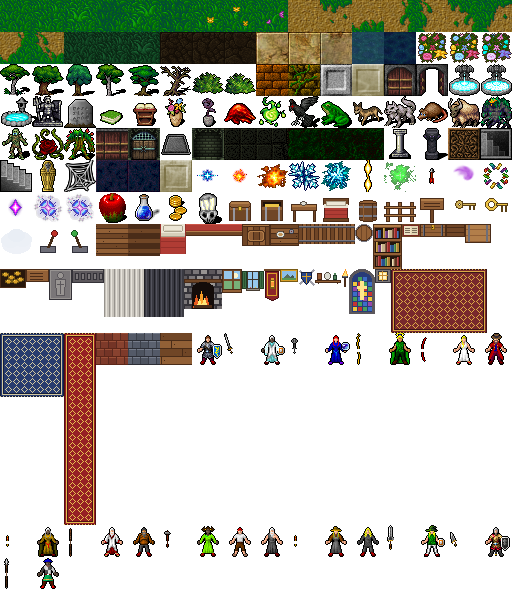
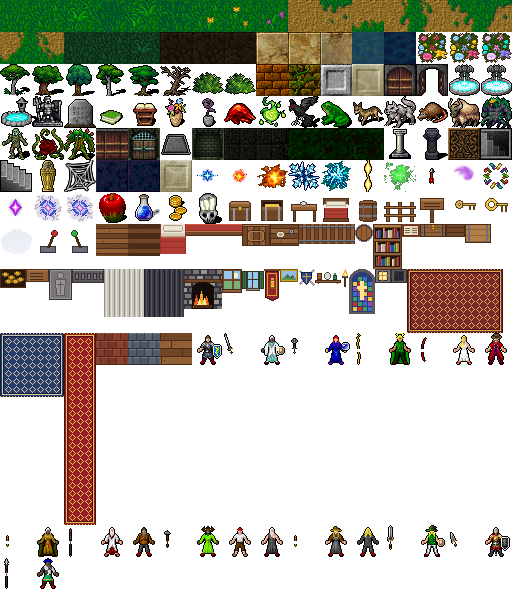
Lanterne : lanternes de sauvegarde et lanternes oubliées en volume
Petite lanterne de pierre au lieu de l'image du bassin ; la lanterne
oubliée, en pierre sombre, a ses vitres éteintes jusqu'à ce qu'on
l'allume (pièces si: 'eteinte' / 'allumee' du moteur).

Claude-Session: https://claude.ai/code/session_01RTxURJ1XwSQTktxKmeYS76

Changed region(s): [[0.9375, 0.4584, 1.0, 0.5806], [0.75, 0.4584, 0.8125, 0.5806]]

diff --git a/moteur-rpg/rendu.js b/moteur-rpg/rendu.js
@@ -154,7 +154,7 @@ void main(){
       if (lum) flamme(lum, o.x + .5, o.y + .8);
       if (s.pieces) {   // objet en volume (coffre, panneau) : les pièces marquées si: 'ouvert' / 'ferme' changent à l'ouverture
         const pieces = meuble(s, o.x, o.y); objets.set(o, { pieces, s });
-        for (const p of pieces) if (p.si === 'ouvert') p.m.visible = false;
+        for (const p of pieces) if (p.si === 'ouvert' || p.si === 'allumee') p.m.visible = false;
         return;
       }
       const nom = o.tuile || s.tuile;
@@ -236,7 +236,7 @@ void main(){
 
     // un meuble en volume (lit, table, tonneau) : des boîtes et des cylindres texturés, face par face
     // pièce : { boite: [l, h, p] | cylindre: [rayon, h] | cone: [rayon, h, côtés], brille: true, pos: [x, y, z], rot: [rx, ry, rz], dessus, face, cote,
-    //          si: 'ouvert' | 'ferme' (pour un coffre) } ; d.lumiere : une flamme qui vacille (cheminée)
+    //          si: 'ouvert' | 'ferme' (coffre), 'allumee' | 'eteinte' (lanterne oubliée) } ; d.lumiere : une flamme qui vacille (cheminée)
     function meuble(d, x, y) {
       const mat = n => new THREE.MeshLambertMaterial({ map: tex(n) }), faites = [];
       for (const p of d.pieces) {
@@ -286,6 +286,8 @@ void main(){
       const s = style.objets[o.type] || {}, lum = s.allumee;
       if (!lum || allumees.has(o)) return;
       allumees.add(o);
+      const x = objets.get(o);   // en volume : la tête allumée remplace la tête éteinte
+      if (x && x.pieces) for (const p of x.pieces) if (p.si === 'allumee' || p.si === 'eteinte') p.m.visible = p.si === 'allumee';
       const p = new THREE.PointLight(lum.couleur, lum.intensite, lum.portee, 1.5);
       p.position.set(o.x + .5, lum.hauteur || .9, o.y + .8); scene.add(p);
       vacillent.push({ p, base: lum.intensite, dec: Math.random() * 9 });
@@ -295,7 +297,7 @@ void main(){
     // un objet qui change : coffre ouvert, levier baissé (tuileOuverte), grille ou nappe disparue (cacheOuvert)
     function majObjet(o, ouvert) {
       const x = objets.get(o); if (!x) return;
-      if (x.pieces) { for (const p of x.pieces) p.m.visible = x.s.cacheOuvert ? !ouvert : p.si === 'ouvert' ? !!ouvert : p.si === 'ferme' ? !ouvert : true; return; }
+      if (x.pieces) { for (const p of x.pieces) p.m.visible = x.s.cacheOuvert ? !ouvert : p.si === 'ouvert' ? !!ouvert : p.si === 'ferme' ? !ouvert : p.m.visible; return; }
       if (x.s.cacheOuvert) { x.m.visible = !ouvert; return; }
       if (!x.s.tuileOuverte) return;
       const t = tex(ouvert ? x.s.tuileOuverte : (o.tuile || x.s.tuile));

diff --git a/lanterne/donnees/base.js b/lanterne/donnees/base.js
@@ -140,8 +140,13 @@ LANTERNE.style = {
       { boite: [.78, .14, .56], pos: [0, .36, 0], face: 'coffre_cote', cote: 'coffre_cote', dessus: 'coffre_couvercle', si: 'ferme' },
       { boite: [.78, .52, .08], pos: [0, .36, -.3], rot: [-.3, 0, 0], face: 'bois', cote: 'coffre_cote', dessus: 'bois', si: 'ouvert' }] },
     panneau: { tuile: 'panneau', pieces: [{ boite: [.09, .8, .09], face: 'bois_sombre' }, { boite: [.72, .38, .07], pos: [0, .42, .05], face: 'panneau_face', cote: 'bois', dessus: 'bois' }] },
-    lanterne: { tuile: 'lanterne_pierre', taille: 1.1, lumiere: { couleur: 0xffa040, intensite: 1.4, portee: 4, hauteur: .9 } },
-    lanterne_oubliee: { tuile: 'lanterne_pierre', taille: 1.1, allumee: { couleur: 0xffb860, intensite: 1.2, portee: 3.5, hauteur: .9 } },
+    lanterne: { tuile: 'lanterne_pierre', pieces: [{ boite: [.52, .1, .52], face: 'calcaire0' }, { cylindre: [.09, .52], pos: [0, .1, 0], face: 'colonne_fut', dessus: 'calcaire0' },
+      { boite: [.42, .06, .42], pos: [0, .62, 0], face: 'calcaire0' }, { boite: [.3, .28, .3], pos: [0, .68, 0], face: 'lanterne_face', dessus: 'calcaire0', brille: true },
+      { cone: [.34, .26], pos: [0, .96, 0], face: 'calcaire0' }, { cylindre: [.035, .1], pos: [0, 1.22, 0], face: 'calcaire0' }], lumiere: { couleur: 0xffa040, intensite: 1.4, portee: 4, hauteur: .85 } },
+    lanterne_oubliee: { tuile: 'lanterne_pierre', pieces: [{ boite: [.52, .1, .52], face: 'sol_crypte0' }, { cylindre: [.09, .52], pos: [0, .1, 0], face: 'colonne_fut_sombre', dessus: 'sol_crypte0' },
+      { boite: [.42, .06, .42], pos: [0, .62, 0], face: 'sol_crypte0' }, { boite: [.3, .28, .3], pos: [0, .68, 0], face: 'lanterne_face_eteinte', dessus: 'sol_crypte0', si: 'eteinte' },
+      { boite: [.3, .28, .3], pos: [0, .68, 0], face: 'lanterne_face', dessus: 'sol_crypte0', brille: true, si: 'allumee' },
+      { cone: [.34, .26], pos: [0, .96, 0], face: 'sol_crypte0' }, { cylindre: [.035, .1], pos: [0, 1.22, 0], face: 'sol_crypte0' }], allumee: { couleur: 0xffb860, intensite: 1.2, portee: 3.5, hauteur: .9 } },
     deco: { taille: 1 },
     grille: { tuile: 'grille', taille: 1, cacheOuvert: true }, porte_cle: { tuile: 'porte_cloutee', taille: 1, cacheOuvert: true },
     nappe: { tuile: 'nappe', taille: 1.25, cacheOuvert: true }, levier: { tuile: 'levier', tuileOuverte: 'levier_baisse', taille: .8 },

diff --git a/lanterne/donnees/tuiles.js b/lanterne/donnees/tuiles.js
@@ -147,7 +147,8 @@ LANTERNE.tuiles = {
   "torche": [341, 269, 8, 18],
   "vitrail": [349, 269, 26, 45],
   "lanterne_face": [375, 269, 16, 14],
-  "tapis": [391, 269, 96, 64],
+  "lanterne_face_eteinte": [391, 269, 16, 14],
+  "tapis": [407, 269, 96, 64],
   "tapis_bleu": [0, 333, 64, 64],
   "tapis_long": [64, 333, 32, 192],
   "toit": [96, 333, 32, 32],

diff --git a/outils/lanterne-tuiles.py b/outils/lanterne-tuiles.py
@@ -271,6 +271,11 @@ def dessines():
     d.rectangle([0, 0, 15, 13], outline=PIERRE[0]); d.rectangle([3, 2, 12, 11], fill=(255, 214, 110), outline=PIERRE[0])
     d.rectangle([5, 4, 10, 9], fill=(255, 246, 200)); d.line([7, 2, 7, 11], fill=(200, 140, 50)); d.line([3, 6, 12, 6], fill=(200, 140, 50))
     t['lanterne_face'] = im
+    im = Image.new('RGBA', (16, 14), PIERRE[1]); d = ImageDraw.Draw(im)
+    d.rectangle([0, 0, 15, 13], outline=PIERRE[0]); d.rectangle([3, 2, 12, 11], fill=(34, 36, 44), outline=PIERRE[0])
+    d.line([7, 2, 7, 11], fill=PIERRE[0]); d.line([3, 6, 12, 6], fill=PIERRE[0]); d.point((5, 4), fill=(80, 84, 96))
+    for (x, y) in ((1, 12), (2, 12), (14, 1), (13, 12), (0, 7)): d.point((x, y), fill=(70, 110, 60))
+    t['lanterne_face_eteinte'] = im
     # tapis (32 px par case) : grand tapis de 3 × 2 cases, chemin de tapis rouge, tapis rond de 2 × 2
     def tapis(w, h, fond, motif, bord):
         im = Image.new('RGBA', (w, h), fond); d = ImageDraw.Draw(im)

diff --git a/specs/suivi.md b/specs/suivi.md
@@ -4,7 +4,7 @@ Détails déplacés de `CLAUDE.md` le 19/10 (pour qu'il reste court : il est rel
 
 ## En cours / à vérifier (au 19/10)
 - **Duché** (20/10) : cahier des charges de l'utilisateur remis au standard de la Ludothèque ([`specs/duche.md`](duche.md) : scripts classiques, `ludo-scores.js`, date locale, une tentative du jour, pixel art 32 bits en portrait, sons discrets, ordre du tour revu) ; maquette `maquettes/duche.html` (A diorama 32 bits, B carte enluminée, C isométrique ; https://claude.ai/artifact/TGCRiKYw1FyA8WUmBxUiw5) refusée ; l'utilisateur veut des **hexagones**, un 4X minimaliste ; maquette 2 `maquettes/duche-2.html` (vectorielle) trop minimale graphiquement : « minimaliste » vise le concept et le nombre de ressources, le dessin doit être riche et animé ; maquette 3 `maquettes/duche-3.html` (A pixel art 32 bits, B illustré en relief) : **A retenue** ; maquette 4 `maquettes/duche-4.html` (carte, événement, combat animés) ; retour : scènes à faire comme Le Thé des Jarls, carte claire et lisible ; maquette 5 `maquettes/duche-5.html` (https://claude.ai/artifact/DBUtVjbVaptU8485abFrVv : scènes HD-2D, carte plus lisible) **validée le 20/10** ; pixel art à améliorer un peu en session 2. **Session 1 faite le 20/10** : `duche/regles.js`, `duche/evenements.js`, `duche/ia.js` (scripts classiques, chargés par Node via `vm` dans `outils/duche-simulateur.js`, lancé par `verifications.js`) ; équilibrage au simulateur : roi mort au tour 11, un vote tous les 2 tours, électeurs à critères variés avec 40 de légitimité minimum, rival couronné = fin, milice sur les terres neutres (à valider, `specs/duche.md` § 15) ; nourriture et bois abondants, à revoir après de vraies parties ; `sw.js` v44 (les 3 fichiers en cache). Deux difficultés ajoutées (20/10, facile = règles de base, normal = plaines à 1 nourriture par qualité, entretien 1/5, hiver annuel, bâtiments ×1,5, rivaux plus mordants ; jour toujours en normal) : 41 % → 28 % de victoires au simulateur, deux fois plus de fermes bâties (`specs/duche.md` § 15). **Session 2 faite le 20/10** : `decor.js` (carte tirée de l'état avec saisons, scènes HD-2D par terrain et saison, illustrations des événements), `jeu.js`, `index.html`, `style.css` ; jouable sur `duche/index.html` (pas encore sur l'accueil) ; défenseur vainqueur : pertes arrondies en dessous. **Session 3 faite le 21/10** : sons, classements, accueil, aide au premier tour, tests (`logique.js`, `fumee.js`), `sw.js` v46 ; **jeu fini**, à essayer sur le téléphone ; artefact créé le 21/10 (https://claude.ai/artifact/5Ad2yYzProUEqpSx7Q3ook). Scène de bataille corrigée (21/10) : bannières plantées derrière les rangs (elles avançaient seules), habitants armés en face quand la terre n'a pas de garnison mais une défense (terrain, murs : 2 figurines par point), terre sans aucune défense occupée sans combat (scène OCCUPATION). Graphismes plus lisibles (21/10, demande de l'utilisateur) : bâtiments redessinés et bien distincts (grange rouge et moulin, scierie à scie ronde et grumes, mine dans le rocher avec rails et or, deux étals rayés au marché, tente et râtelier de lances à la caserne), décalés pour que l'écusson ne les cache plus ; miniature de chaque bâtiment dans le menu CONSTRUIRE ; lance des soldats tenue le long du dos (plus entre les pieds) ; armées plus écartées ; le premier rang tombe d'abord. 30 tours, 37 terres. Partie libre classée (`best`), Duché remplace Le Petit Royaume. Ensuite 3 sessions, Opus.
-- **La Dernière Lanterne (RPG)** (20/10) : cahier des charges [`specs/rpg.md`](specs/rpg.md) : petit RPG de 5 à 10 h façon Link's Awakening / Dragon Quest 1, 4 classes (LAME, ARCANISTE, RODEUR, CLERC), 6 stats expliquées, scénario en 4 actes et 3 rebondissements (Isée la Brumienne, le Prieur qui est Aubrin), moteur `moteur-rpg/` séparé des données. Relu le 20/10 : titre validé, **équipe de 4 héros** (le héros LAME, ELOI CLERC, VERENE ARCANISTE, MAUD RODEUR), **tour par tour**, **sauvegardes automatiques aux moments clés** (défaite = reprise à la plus récente, sans perte), **pas de classement** ; larmes et troc gardés pour l'instant mais trop proches de Zelda (remplacements proposés au § 8.4). Puis **validé** le 20/10 : monstres visibles sur la carte, l'équipe telle quelle, larmes et troc remplacés par les lanternes oubliées et les quêtes des compagnons. **Maquette (20/10)** `maquettes/la-derniere-lanterne.html` (https://claude.ai/artifact/DniPR4j2u1FEJXJWY7wuuo) : trois directions sur trois téléphones, même moment du jeu, trois scènes animées (carte du Bois Murmurant avec l'équipe en file, la lanterne et un feu follet ; combat à quatre au tour par tour ; Isée à Clairfond) : A la nuit gothique (Vampire Survivors, lumière par paliers, brume tramée, cartes-portraits au combat), B le conte 16 bits (Link's Awakening DX / Dragon Quest, fenêtres bleues, combat de face), C lumière et brume (pixel art sous halos doux, brume en nappes, combat de côté avec l'ordre des tours). **Retour : C « pas mal mais beaucoup de travail »** ; combat vu de profil avec une animation par attaque ; personnages et décor à revoir, s'inspirer d'**Octopath Traveler sans HD-2D**. **Maquette 2 (20/10)** `maquettes/la-derniere-lanterne-2.html` (https://claude.ai/artifact/TLds9VrVmtsNQTv8RD4TeM) : écran logique 180 × 320 ; personnages articulés (pantins dessinés en pixels, ombrage et contour coloré automatiques, poses : marche, course, garde, élan, taille, sort, prière, coup de dague, coup reçu) ; décor en relief (grands arbres, muret et escalier, ruisseau, pont, lanterne de pierre, panneau, clôture) ; combat de profil animé (MAUD disparaît et frappe deux fois, ALDEN court et taille, cristaux de VERENE, colonne de lumière d'ELOI, feu follet et gelée qui attaquent) ; même dessin sous trois lumières : 1 crépuscule doré, 2 nuit des lanternes, 3 matin de brume. **Retour : la 1 est bien, mais pas l'ambiance crépusculaire (« une journée normale ») ; les personnages « ça fait pas ouf ».** **Maquette 3 (20/10)** `maquettes/la-derniere-lanterne-3.html` (https://claude.ai/artifact/C82S25sKWRxf6cxCvFsne7) : plein jour (ciel bleu, nuages, ombres de nuages qui passent) ; personnages redessinés (visage de trois quarts : deux yeux, sourcils, nez, bouche ; coiffures et tenues propres à chacun : cape rouge d'ALDEN, capuche d'ELOI dans le dos, chapeau de VERENE, capuche et écharpe de MAUD) ; deux proportions : 1 héroïque (trois têtes, façon Octopath), 2 conte (deux têtes, grands yeux, joues roses) ; nouvel onglet EQUIPE (les quatre en grand et leurs gestes). **Retour : l'utilisateur envoie des planches de sprites d'Octopath Traveler (et de Final Fantasy Brave Exvius / War of the Visions) : « voilà le genre de DA que j'attends ».** **Maquette 4 (20/10)** `maquettes/la-derniere-lanterne-4.html` (https://claude.ai/artifact/1jUkewXd353fDwNWAk5vbp) : héros dessinés pixel par pixel (grilles de 22 colonnes, vue de face de trois quarts, grosse chevelure, petit visage), bras et arme redessinés seulement pendant les gestes, traits sombres entre matières et modelé automatiques ; contour noir (1) ou doux (2). Limite constatée : moins fin que les références (moins de nuances, corps trop larges) ; piste si ça ne suffit pas : partir de sprites existants libres de droits ou fournis par l'utilisateur. **Retour : refusée, « ça ne s'inspire pas du tout des sprites » ; laisser entièrement tomber le design et la DA actuels et repartir des sprites de référence.** **Maquette 5 (20/10)** `maquettes/la-derniere-lanterne-5.html` (https://claude.ai/artifact/TNkaxKCqaAMe2Tsa7Rs36J) : planche sur fond clair comme les références ; mesures prises sur les sprites de référence (18 × 34 px, tête et cheveux sur 13 lignes, petit visage, corps étroit, bras le long du corps, jambes séparées, 3 à 4 nuances par matière, contour presque noir teinté) ; ALDEN, ELOI, VERENE, MAUD et Isée dessinés de zéro (pas de copie), animés (respiration, marche, geste), à taille agrandie et à taille réelle. Décor, monstres et combat à refaire dans ce style après validation des héros. **Retour : « pas assez proportionné, trop grosse tête, trop coloré ».** **v2 (même lien)** : tête ramenée à 12 colonnes sur 13 lignes, corps plus large (16 colonnes avec les bras), jambes plus longues (sprites de 35 à 38 lignes), palettes éteintes et terreuses (bleu gris, rouge passé, vert mousse, prune, écru). À valider. **Retour (21/10) : « ça ne ressemble pas, même de loin, aux modèles ».** Constat : dessiner des sprites de ce niveau en code ne marche pas ; pistes : pack existant ou sprites fournis. L'utilisateur a montré une planche de guerrier générée par une autre IA (style visé : personnages de face, détaillés, cape, cotte de mailles ; inutilisable telle quelle, pixels hors grille). Essai du pack gratuit **Tiny RPG Character Asset Pack** de Zerie (itch.io autorisé dans l'environnement ; version gratuite : Soldat et Orque, 100 × 100 par image, ~20 px de haut, 7 animations) : https://claude.ai/artifact/UGnfWCjt2XEpsWdbSCKaAK (fichier gardé hors du dépôt : la licence interdit de redistribuer les fichiers bruts). Style chibi minuscule, loin du style visé. En attente du choix de l'utilisateur. Galerie de 24 packs trouvés sur itch.io : https://claude.ai/artifact/WUNw5EGKguEcTL7MaohZfY. L'utilisateur veut rester sur du gratuit. Essai du pack **32rogues** de Seth (gratuit ; usage commercial permis, sans redistribution ni IA ; 32 × 32 vus de face, une seule image par personnage, monstres, animaux, objets et décors) : https://claude.ai/artifact/WsWqBAKVZw8iEc8n3X6JLB (équipe au choix, carte, combat animé par le code ; décor du pack sombre, posé sur un sol clair). Fichiers d'essai gardés hors du dépôt. Essai des packs **Kenney** (CC0, aucune contrainte) « Roguelike Characters » + « Roguelike RPG Pack » : héros composés pièce par pièce (16 × 16), village d'exemple du pack, combat animé par le code : `maquettes/la-derniere-lanterne-kenney.html` (https://claude.ai/artifact/BDsADhAxC8KP1Psj4piGDX). L'utilisateur : « la DA sera peut-être plus sympa comme ça ». À valider. **Décision (21/10) : partir sur du 16 × 16** (32 × 32 trop rare en gratuit), avec des personnages plus détaillés que Kenney. Galerie de 24 packs gratuits 16 × 16 : https://claude.ai/artifact/EL654zY3aaBvk9mRQt2arS ; l'utilisateur retient 1 (superdark, Fantasy RPG Characters : licence libre, ~25 humains, pas de monstres), 3 (thingonitsown, Heroes and Monsters : animé, mais reprend World of Warcraft, héros déconseillés) et 15 (Pixel Crawler d'anokolisa : le plus soigné, animé, décors superbes, seulement 3 héros, conditions dans un document externe non lu). Essai des trois : https://claude.ai/artifact/4X5giCU7XDi5T3cBnNo6Ph (hors dépôt). **Famille trouvée (21/10)** : le pack superdark est une extension de **0x72 DungeonTileset II** (CC0 : héros chevalier, elfe, magicienne, nain, homme-lézard ; gobelins, orques, squelettes, zombies, démons, gelées ; donjons ; tout animé) ; superdark a aussi **Enchanted Forest Characters** (gratuit, usage libre : prêtres, rôdeuse, elfes, fée, loups, ours, champignons, gnolls, troll, ent, golem ; animés). Packs d'objets de l'utilisateur : **ssugmi** 16 × 16 (70 objets, usage commercial permis, redistribution interdite) et **Shikashi** (284 icônes 32 × 32, libres, crédit « Matt Firth (shikashipx) » et « game-icons.net »). Essai du mélange (équipe au choix, combat en forêt, combat contre les monstres de Pixel Crawler, inventaire) : https://claude.ai/artifact/Hy1AiMTiEER6Vi4qCB7KPf (hors dépôt). L'utilisateur : faire un RPG sans un pack solide est compliqué. **Essai de Ninja Adventure (21/10)** (pixel-boy et AAA, CC0, prix libre, 89 Mo : 50+ personnages animés 4 directions avec portraits, 30+ monstres, 9 boss, décors, interface, police, effets, objets, 100+ bruitages, 37 musiques) : `maquettes/la-derniere-lanterne-ninja.html` (https://claude.ai/artifact/Tzfphngo1JkMHwPnEHjRwE) : équipe au choix, village composé avec les décors, dialogue avec portrait, combat avec effets et bruitages, inventaire, musique « Lost Village ». Note technique : la police du pack (NormalFont.ttf) n'a pas d'espace, il faut placer les mots un par un. **Validé (21/10) : Ninja Adventure retenu.** Deux points : police du pack trop difficile à lire (en choisir une autre) ; sélection des personnages à faire. Page de choix `maquettes/la-derniere-lanterne-choix.html` (https://claude.ai/artifact/6wntfaMcXYmeNNYuUQgNhn) : trois polices (Pixelify Sans, VT323, Jersey 10) dans la boîte de dialogue et le bandeau de combat ; les 92 personnages du pack, à attribuer aux rôles (4 héros, Isée, Mère Ysolde, Prieur Vaast, Gaspard, villageois), bilan à copier. En attente des choix (page de choix mise de côté le 21/10 à la demande de l'utilisateur). **Essai Dungeon Crawl 32 × 32** (21/10, `maquettes/la-derniere-lanterne-dcss.html`, https://claude.ai/artifact/9cesgeEQCAj1t8FaMz3uty) : tuiles de Dungeon Crawl Stone Soup (CC0, prises dans le dépôt GitHub `crawl/crawl`, dossier `crawl-ref/source/rltiles`, car `opengameart.org` était encore bloqué ; pour la vraie version, prendre le zip d'OpenGameArt, CC0) ; héros composés en poupée (corps + armure + arme, l'équipement se voit), village, combat animé, objets ; limites : une seule image de face par personnage, peu de décor de village, ni interface ni sons. Avis : « ça rend pas si mal » ; demande d'essayer les sons de Ninja Adventure, des animations et une vue HD-2D. **Essai HD-2D** (21/10, `maquettes/la-derniere-lanterne-hd2d.html`, https://claude.ai/artifact/HtaCGnYudqSPyiqTZEeJNn) : Three.js r128 (cdnjs) ; village et combat en relief (maison avec toit, arbres en panneaux qui projettent leur ombre, flou de profondeur et lueur faits par un petit shader maison, poussières dans la lumière, lanterne de pierre éclairée, éclairs colorés des sorts) ; animations faites par le code dans un canevas 64 × 48 par personnage (respiration, marche balancée, arme tournée autour de sa prise calculée par `construire.py`, flash, saut) ; sons et musiques (« Calm Village », « Fight ») de Ninja Adventure en ogg mono ; page de 950 Ko. Sources de fabrication dans le brouillon de la session (`dcw/construire.py`, `gabarit2.html`). Avis (21/10) : « incroyable », graphismes cohérents, la HD-2D donne un côté original ; quelques retouches à venir. Corrigé : son muet (les sons sont décodés depuis le base64 avec `atob` au lieu de `fetch` sur une URL `data:`, et un son vide joué pendant le geste débloque l'audio) ; monstres retournés face aux héros (les tuiles de Dungeon Crawl regardent vers la gauche). Avis suivant : musique bien, sons des sorts « pas terribles », attaque en « pirouette bizarre », demande de voir ce qu'on peut faire des personnages. Fait (21/10) : attaque calmée (l'arme tourne de 0,35 puis −0,55 rad au lieu de 0,8 puis −1,4) ; **banc des sons** dans l'essai HD-2D (2 à 4 sons par action : Ninja Adventure, Kenney CC0 « RPG Audio » et « Impact Sounds », et **Leohpaz « RPG Essentials SFX Free »** sur itch.io : usage libre même commercial, crédit apprécié, mais interdit de redistribuer le pack lui-même ; choix gardés dans `localStorage` `ldl-sons`) ; **atelier des personnages** (`maquettes/la-derniere-lanterne-atelier.html`, https://claude.ai/artifact/StNMGsAUALcSSQEenvs2H2, 2 Mo) : composer un héros pièce par pièce (174 corps, 56 coiffures, 35 barbes, 159 armures, 103 coiffes, 224 armes, 36 boucliers, capes, gants, bottes, jambes ; ordre de superposition de Dungeon Crawl, cape derrière), animations, au hasard, recette à copier ; galerie de 1 129 monstres et habitants par famille. Fabriqué par `dcw/atelier.py` dans le brouillon. **Choix (22/10)** : personnages actuels gardés ; sons choisis (détail dans `specs/rpg.md` § 14), mis par défaut dans l'essai HD-2D. **DA validée** : Dungeon Crawl 32 × 32 en HD-2D (`specs/rpg.md` § 13). **Session 1 du moteur faite (22/10)** : `moteur-rpg/` (regles, etat, monde, evenements testables sous Node ; poupees, rendu HD-2D, interface, menu, entrees, sons, partie) et `lanterne/` jouable : écran titre (3 emplacements, effacer, nom du héros), maison d'Ysolde (début du prologue, mission, 2 herbes, 30 écus), Clairfond (3 maisons dont l'auberge, 7 habitants dont Gaspard et son « âne » Biscotte, statue d'Aubrin, lanterne du village qui soigne et sauvegarde, coffre, panneaux, étang, fontaine), route de la forêt dans la brume (4 monstres errants, rencontre avec Isée, lanterne oubliée qui montre un souvenir, coffre, lanterne de sauvegarde, portes de l'abbaye = fin de cette version). Les combats ne sont pas encore là : toucher un monstre affiche un message et le monstre disparaît. Sauvegardes : automatiques (Clairfond, route, événements), à la main aux lanternes, copie de reprise à chaque carte. Décisions prises en route (à valider par l'utilisateur) : caméra qui suit l'équipe au lieu de l'écran par écran ; Pixelify Sans avec accents ; nom du héros 8 lettres. Vérifié : `outils/lanterne-tests.js` (moteur, données, accessibilité), bloc de `fumee.js`, ESLint, parties jouées au clavier dans Chromium. `sw.js` passé à `ludotheque-v50`. Pas encore : accueil, `LUDO1-`, artefact (session 6). Clins d'œil (idée de l'utilisateur, 22/10, `specs/rpg.md` § 5.3) : Nuage (Cloud) et le garçon en vert (Link) à Clairfond ; les habitants peuvent avoir leur geste (`anim` dans la carte). **Session 2 faite (22/10)** : combats au tour par tour (`moteur-rpg/regles.js` complété, `combat.js`, `combat-ui.js`), 27 talents, objets et équipement (`lanterne/donnees/combat.js`), 5 monstres de la forêt + le Grand Cerf (image provisoire), sons choisis par l'utilisateur, musique « Fight », menu ÉQUIPE avec l'équipement et OBJETS utilisables, coffre d'une veste de cuir sur la route, garde à la flèche dans le genou (idée de l'utilisateur) à Clairfond. Équilibrage : `outils/lanterne-combats.js` (héros seul niv. 1 contre un feu follet : 2 tours, 26 % des PV ; contre deux : 88 % de victoires ; Grand Cerf à 3 niv. 6 : 94 %, 8,8 tours). Tests : `lanterne-tests.js` (formules du § 9.2, niveaux, équipement, Protection, fuite, surprise, objets, équilibrage), combat entier dans `fumee.js`. `sw.js` : `ludotheque-v51`. **Session 3 faite (22/10)** : le boss de l'acte 1 devient **le Roi des aulnes** (choix de l'utilisateur, le pack n'a pas de cerf) ; abbaye (Grande Lanterne, Vaast, Eloi rejoint) ; Bois Murmurant à l'est de Clairfond (Vérène sauvée d'un loup et d'un corbeau, lanterne oubliée, coffres) ; Crypte des racines en 4 salles (levier et grille, Lanterne du veilleur = premier outil sur le bouton B qui dissipe la brume, clé et porte, cœur avec fresque et Roi des aulnes) ; fin de l'acte 1. Moteur : objets ouvrables, outils, monstres faibles qui fuient, habitants cachés. Équilibrage : Roi des aulnes contre le trio niv. 5 : 91 % de victoires, 7,4 tours ; Vérène niv. 1 contre loup + corbeau : 100 %. Solveur d'accessibilité jusqu'à `LANTERNE.fin`. Partie jouée dans Chromium de l'abbaye au boss. **Retouches (22/10)** : cartouche DEMO sur l'accueil ; marche plus douce (le balancement suit l'horloge, 2,4 cycles par seconde, au lieu de repartir à chaque case, soit 10 cycles par seconde) ; **meubles en volume** (decor `meuble` du moteur : lit, table et tonneau faits de boîtes et de cylindres texturés face par face, au lieu d'images debout qui paraissaient plates) ; page **Crédits** (`credits/index.html`, lien en bas de l'accueil et sur l'écran titre de la Lanterne) et règle des crédits. **Passe sur les objets (22/10)** : en volume aussi la bibliothèque, le pupitre au livre ouvert, la cheminée (avec sa flamme qui vacille), les barrières, les colonnes de l'abbaye et de la crypte, les sarcophages couchés, et les objets coffre (couvercle qui s'ouvre sur les pièces d'or) et panneau ; **ornements** des cartes (`ornements` : tapis au sol, fenêtres, vitraux, tapisseries, tableau, bouclier, étagère, torches qui éclairent) ; fenêtres à volets sur les façades de Clairfond (`fenetres` des maisons) ; maison d'Ysolde et auberge meublées (cheminée, tapis, fenêtres), abbaye (vitraux, tapisseries, tapis rouge), crypte (torches). Grande Lanterne de l'abbaye refaite en volume et avancée au milieu de la nef (bassin d'eau, fût, tête aux vitres allumées, toit pointu ; l'image du pack, loin du mur, devenait un bassin qui flotte) ; Vaast l'attend à côté du tapis. Prochaine étape : session 4 (actes 2 et 3), opusplan.
+- **La Dernière Lanterne (RPG)** (20/10) : cahier des charges [`specs/rpg.md`](specs/rpg.md) : petit RPG de 5 à 10 h façon Link's Awakening / Dragon Quest 1, 4 classes (LAME, ARCANISTE, RODEUR, CLERC), 6 stats expliquées, scénario en 4 actes et 3 rebondissements (Isée la Brumienne, le Prieur qui est Aubrin), moteur `moteur-rpg/` séparé des données. Relu le 20/10 : titre validé, **équipe de 4 héros** (le héros LAME, ELOI CLERC, VERENE ARCANISTE, MAUD RODEUR), **tour par tour**, **sauvegardes automatiques aux moments clés** (défaite = reprise à la plus récente, sans perte), **pas de classement** ; larmes et troc gardés pour l'instant mais trop proches de Zelda (remplacements proposés au § 8.4). Puis **validé** le 20/10 : monstres visibles sur la carte, l'équipe telle quelle, larmes et troc remplacés par les lanternes oubliées et les quêtes des compagnons. **Maquette (20/10)** `maquettes/la-derniere-lanterne.html` (https://claude.ai/artifact/DniPR4j2u1FEJXJWY7wuuo) : trois directions sur trois téléphones, même moment du jeu, trois scènes animées (carte du Bois Murmurant avec l'équipe en file, la lanterne et un feu follet ; combat à quatre au tour par tour ; Isée à Clairfond) : A la nuit gothique (Vampire Survivors, lumière par paliers, brume tramée, cartes-portraits au combat), B le conte 16 bits (Link's Awakening DX / Dragon Quest, fenêtres bleues, combat de face), C lumière et brume (pixel art sous halos doux, brume en nappes, combat de côté avec l'ordre des tours). **Retour : C « pas mal mais beaucoup de travail »** ; combat vu de profil avec une animation par attaque ; personnages et décor à revoir, s'inspirer d'**Octopath Traveler sans HD-2D**. **Maquette 2 (20/10)** `maquettes/la-derniere-lanterne-2.html` (https://claude.ai/artifact/TLds9VrVmtsNQTv8RD4TeM) : écran logique 180 × 320 ; personnages articulés (pantins dessinés en pixels, ombrage et contour coloré automatiques, poses : marche, course, garde, élan, taille, sort, prière, coup de dague, coup reçu) ; décor en relief (grands arbres, muret et escalier, ruisseau, pont, lanterne de pierre, panneau, clôture) ; combat de profil animé (MAUD disparaît et frappe deux fois, ALDEN court et taille, cristaux de VERENE, colonne de lumière d'ELOI, feu follet et gelée qui attaquent) ; même dessin sous trois lumières : 1 crépuscule doré, 2 nuit des lanternes, 3 matin de brume. **Retour : la 1 est bien, mais pas l'ambiance crépusculaire (« une journée normale ») ; les personnages « ça fait pas ouf ».** **Maquette 3 (20/10)** `maquettes/la-derniere-lanterne-3.html` (https://claude.ai/artifact/C82S25sKWRxf6cxCvFsne7) : plein jour (ciel bleu, nuages, ombres de nuages qui passent) ; personnages redessinés (visage de trois quarts : deux yeux, sourcils, nez, bouche ; coiffures et tenues propres à chacun : cape rouge d'ALDEN, capuche d'ELOI dans le dos, chapeau de VERENE, capuche et écharpe de MAUD) ; deux proportions : 1 héroïque (trois têtes, façon Octopath), 2 conte (deux têtes, grands yeux, joues roses) ; nouvel onglet EQUIPE (les quatre en grand et leurs gestes). **Retour : l'utilisateur envoie des planches de sprites d'Octopath Traveler (et de Final Fantasy Brave Exvius / War of the Visions) : « voilà le genre de DA que j'attends ».** **Maquette 4 (20/10)** `maquettes/la-derniere-lanterne-4.html` (https://claude.ai/artifact/1jUkewXd353fDwNWAk5vbp) : héros dessinés pixel par pixel (grilles de 22 colonnes, vue de face de trois quarts, grosse chevelure, petit visage), bras et arme redessinés seulement pendant les gestes, traits sombres entre matières et modelé automatiques ; contour noir (1) ou doux (2). Limite constatée : moins fin que les références (moins de nuances, corps trop larges) ; piste si ça ne suffit pas : partir de sprites existants libres de droits ou fournis par l'utilisateur. **Retour : refusée, « ça ne s'inspire pas du tout des sprites » ; laisser entièrement tomber le design et la DA actuels et repartir des sprites de référence.** **Maquette 5 (20/10)** `maquettes/la-derniere-lanterne-5.html` (https://claude.ai/artifact/TNkaxKCqaAMe2Tsa7Rs36J) : planche sur fond clair comme les références ; mesures prises sur les sprites de référence (18 × 34 px, tête et cheveux sur 13 lignes, petit visage, corps étroit, bras le long du corps, jambes séparées, 3 à 4 nuances par matière, contour presque noir teinté) ; ALDEN, ELOI, VERENE, MAUD et Isée dessinés de zéro (pas de copie), animés (respiration, marche, geste), à taille agrandie et à taille réelle. Décor, monstres et combat à refaire dans ce style après validation des héros. **Retour : « pas assez proportionné, trop grosse tête, trop coloré ».** **v2 (même lien)** : tête ramenée à 12 colonnes sur 13 lignes, corps plus large (16 colonnes avec les bras), jambes plus longues (sprites de 35 à 38 lignes), palettes éteintes et terreuses (bleu gris, rouge passé, vert mousse, prune, écru). À valider. **Retour (21/10) : « ça ne ressemble pas, même de loin, aux modèles ».** Constat : dessiner des sprites de ce niveau en code ne marche pas ; pistes : pack existant ou sprites fournis. L'utilisateur a montré une planche de guerrier générée par une autre IA (style visé : personnages de face, détaillés, cape, cotte de mailles ; inutilisable telle quelle, pixels hors grille). Essai du pack gratuit **Tiny RPG Character Asset Pack** de Zerie (itch.io autorisé dans l'environnement ; version gratuite : Soldat et Orque, 100 × 100 par image, ~20 px de haut, 7 animations) : https://claude.ai/artifact/UGnfWCjt2XEpsWdbSCKaAK (fichier gardé hors du dépôt : la licence interdit de redistribuer les fichiers bruts). Style chibi minuscule, loin du style visé. En attente du choix de l'utilisateur. Galerie de 24 packs trouvés sur itch.io : https://claude.ai/artifact/WUNw5EGKguEcTL7MaohZfY. L'utilisateur veut rester sur du gratuit. Essai du pack **32rogues** de Seth (gratuit ; usage commercial permis, sans redistribution ni IA ; 32 × 32 vus de face, une seule image par personnage, monstres, animaux, objets et décors) : https://claude.ai/artifact/WsWqBAKVZw8iEc8n3X6JLB (équipe au choix, carte, combat animé par le code ; décor du pack sombre, posé sur un sol clair). Fichiers d'essai gardés hors du dépôt. Essai des packs **Kenney** (CC0, aucune contrainte) « Roguelike Characters » + « Roguelike RPG Pack » : héros composés pièce par pièce (16 × 16), village d'exemple du pack, combat animé par le code : `maquettes/la-derniere-lanterne-kenney.html` (https://claude.ai/artifact/BDsADhAxC8KP1Psj4piGDX). L'utilisateur : « la DA sera peut-être plus sympa comme ça ». À valider. **Décision (21/10) : partir sur du 16 × 16** (32 × 32 trop rare en gratuit), avec des personnages plus détaillés que Kenney. Galerie de 24 packs gratuits 16 × 16 : https://claude.ai/artifact/EL654zY3aaBvk9mRQt2arS ; l'utilisateur retient 1 (superdark, Fantasy RPG Characters : licence libre, ~25 humains, pas de monstres), 3 (thingonitsown, Heroes and Monsters : animé, mais reprend World of Warcraft, héros déconseillés) et 15 (Pixel Crawler d'anokolisa : le plus soigné, animé, décors superbes, seulement 3 héros, conditions dans un document externe non lu). Essai des trois : https://claude.ai/artifact/4X5giCU7XDi5T3cBnNo6Ph (hors dépôt). **Famille trouvée (21/10)** : le pack superdark est une extension de **0x72 DungeonTileset II** (CC0 : héros chevalier, elfe, magicienne, nain, homme-lézard ; gobelins, orques, squelettes, zombies, démons, gelées ; donjons ; tout animé) ; superdark a aussi **Enchanted Forest Characters** (gratuit, usage libre : prêtres, rôdeuse, elfes, fée, loups, ours, champignons, gnolls, troll, ent, golem ; animés). Packs d'objets de l'utilisateur : **ssugmi** 16 × 16 (70 objets, usage commercial permis, redistribution interdite) et **Shikashi** (284 icônes 32 × 32, libres, crédit « Matt Firth (shikashipx) » et « game-icons.net »). Essai du mélange (équipe au choix, combat en forêt, combat contre les monstres de Pixel Crawler, inventaire) : https://claude.ai/artifact/Hy1AiMTiEER6Vi4qCB7KPf (hors dépôt). L'utilisateur : faire un RPG sans un pack solide est compliqué. **Essai de Ninja Adventure (21/10)** (pixel-boy et AAA, CC0, prix libre, 89 Mo : 50+ personnages animés 4 directions avec portraits, 30+ monstres, 9 boss, décors, interface, police, effets, objets, 100+ bruitages, 37 musiques) : `maquettes/la-derniere-lanterne-ninja.html` (https://claude.ai/artifact/Tzfphngo1JkMHwPnEHjRwE) : équipe au choix, village composé avec les décors, dialogue avec portrait, combat avec effets et bruitages, inventaire, musique « Lost Village ». Note technique : la police du pack (NormalFont.ttf) n'a pas d'espace, il faut placer les mots un par un. **Validé (21/10) : Ninja Adventure retenu.** Deux points : police du pack trop difficile à lire (en choisir une autre) ; sélection des personnages à faire. Page de choix `maquettes/la-derniere-lanterne-choix.html` (https://claude.ai/artifact/6wntfaMcXYmeNNYuUQgNhn) : trois polices (Pixelify Sans, VT323, Jersey 10) dans la boîte de dialogue et le bandeau de combat ; les 92 personnages du pack, à attribuer aux rôles (4 héros, Isée, Mère Ysolde, Prieur Vaast, Gaspard, villageois), bilan à copier. En attente des choix (page de choix mise de côté le 21/10 à la demande de l'utilisateur). **Essai Dungeon Crawl 32 × 32** (21/10, `maquettes/la-derniere-lanterne-dcss.html`, https://claude.ai/artifact/9cesgeEQCAj1t8FaMz3uty) : tuiles de Dungeon Crawl Stone Soup (CC0, prises dans le dépôt GitHub `crawl/crawl`, dossier `crawl-ref/source/rltiles`, car `opengameart.org` était encore bloqué ; pour la vraie version, prendre le zip d'OpenGameArt, CC0) ; héros composés en poupée (corps + armure + arme, l'équipement se voit), village, combat animé, objets ; limites : une seule image de face par personnage, peu de décor de village, ni interface ni sons. Avis : « ça rend pas si mal » ; demande d'essayer les sons de Ninja Adventure, des animations et une vue HD-2D. **Essai HD-2D** (21/10, `maquettes/la-derniere-lanterne-hd2d.html`, https://claude.ai/artifact/HtaCGnYudqSPyiqTZEeJNn) : Three.js r128 (cdnjs) ; village et combat en relief (maison avec toit, arbres en panneaux qui projettent leur ombre, flou de profondeur et lueur faits par un petit shader maison, poussières dans la lumière, lanterne de pierre éclairée, éclairs colorés des sorts) ; animations faites par le code dans un canevas 64 × 48 par personnage (respiration, marche balancée, arme tournée autour de sa prise calculée par `construire.py`, flash, saut) ; sons et musiques (« Calm Village », « Fight ») de Ninja Adventure en ogg mono ; page de 950 Ko. Sources de fabrication dans le brouillon de la session (`dcw/construire.py`, `gabarit2.html`). Avis (21/10) : « incroyable », graphismes cohérents, la HD-2D donne un côté original ; quelques retouches à venir. Corrigé : son muet (les sons sont décodés depuis le base64 avec `atob` au lieu de `fetch` sur une URL `data:`, et un son vide joué pendant le geste débloque l'audio) ; monstres retournés face aux héros (les tuiles de Dungeon Crawl regardent vers la gauche). Avis suivant : musique bien, sons des sorts « pas terribles », attaque en « pirouette bizarre », demande de voir ce qu'on peut faire des personnages. Fait (21/10) : attaque calmée (l'arme tourne de 0,35 puis −0,55 rad au lieu de 0,8 puis −1,4) ; **banc des sons** dans l'essai HD-2D (2 à 4 sons par action : Ninja Adventure, Kenney CC0 « RPG Audio » et « Impact Sounds », et **Leohpaz « RPG Essentials SFX Free »** sur itch.io : usage libre même commercial, crédit apprécié, mais interdit de redistribuer le pack lui-même ; choix gardés dans `localStorage` `ldl-sons`) ; **atelier des personnages** (`maquettes/la-derniere-lanterne-atelier.html`, https://claude.ai/artifact/StNMGsAUALcSSQEenvs2H2, 2 Mo) : composer un héros pièce par pièce (174 corps, 56 coiffures, 35 barbes, 159 armures, 103 coiffes, 224 armes, 36 boucliers, capes, gants, bottes, jambes ; ordre de superposition de Dungeon Crawl, cape derrière), animations, au hasard, recette à copier ; galerie de 1 129 monstres et habitants par famille. Fabriqué par `dcw/atelier.py` dans le brouillon. **Choix (22/10)** : personnages actuels gardés ; sons choisis (détail dans `specs/rpg.md` § 14), mis par défaut dans l'essai HD-2D. **DA validée** : Dungeon Crawl 32 × 32 en HD-2D (`specs/rpg.md` § 13). **Session 1 du moteur faite (22/10)** : `moteur-rpg/` (regles, etat, monde, evenements testables sous Node ; poupees, rendu HD-2D, interface, menu, entrees, sons, partie) et `lanterne/` jouable : écran titre (3 emplacements, effacer, nom du héros), maison d'Ysolde (début du prologue, mission, 2 herbes, 30 écus), Clairfond (3 maisons dont l'auberge, 7 habitants dont Gaspard et son « âne » Biscotte, statue d'Aubrin, lanterne du village qui soigne et sauvegarde, coffre, panneaux, étang, fontaine), route de la forêt dans la brume (4 monstres errants, rencontre avec Isée, lanterne oubliée qui montre un souvenir, coffre, lanterne de sauvegarde, portes de l'abbaye = fin de cette version). Les combats ne sont pas encore là : toucher un monstre affiche un message et le monstre disparaît. Sauvegardes : automatiques (Clairfond, route, événements), à la main aux lanternes, copie de reprise à chaque carte. Décisions prises en route (à valider par l'utilisateur) : caméra qui suit l'équipe au lieu de l'écran par écran ; Pixelify Sans avec accents ; nom du héros 8 lettres. Vérifié : `outils/lanterne-tests.js` (moteur, données, accessibilité), bloc de `fumee.js`, ESLint, parties jouées au clavier dans Chromium. `sw.js` passé à `ludotheque-v50`. Pas encore : accueil, `LUDO1-`, artefact (session 6). Clins d'œil (idée de l'utilisateur, 22/10, `specs/rpg.md` § 5.3) : Nuage (Cloud) et le garçon en vert (Link) à Clairfond ; les habitants peuvent avoir leur geste (`anim` dans la carte). **Session 2 faite (22/10)** : combats au tour par tour (`moteur-rpg/regles.js` complété, `combat.js`, `combat-ui.js`), 27 talents, objets et équipement (`lanterne/donnees/combat.js`), 5 monstres de la forêt + le Grand Cerf (image provisoire), sons choisis par l'utilisateur, musique « Fight », menu ÉQUIPE avec l'équipement et OBJETS utilisables, coffre d'une veste de cuir sur la route, garde à la flèche dans le genou (idée de l'utilisateur) à Clairfond. Équilibrage : `outils/lanterne-combats.js` (héros seul niv. 1 contre un feu follet : 2 tours, 26 % des PV ; contre deux : 88 % de victoires ; Grand Cerf à 3 niv. 6 : 94 %, 8,8 tours). Tests : `lanterne-tests.js` (formules du § 9.2, niveaux, équipement, Protection, fuite, surprise, objets, équilibrage), combat entier dans `fumee.js`. `sw.js` : `ludotheque-v51`. **Session 3 faite (22/10)** : le boss de l'acte 1 devient **le Roi des aulnes** (choix de l'utilisateur, le pack n'a pas de cerf) ; abbaye (Grande Lanterne, Vaast, Eloi rejoint) ; Bois Murmurant à l'est de Clairfond (Vérène sauvée d'un loup et d'un corbeau, lanterne oubliée, coffres) ; Crypte des racines en 4 salles (levier et grille, Lanterne du veilleur = premier outil sur le bouton B qui dissipe la brume, clé et porte, cœur avec fresque et Roi des aulnes) ; fin de l'acte 1. Moteur : objets ouvrables, outils, monstres faibles qui fuient, habitants cachés. Équilibrage : Roi des aulnes contre le trio niv. 5 : 91 % de victoires, 7,4 tours ; Vérène niv. 1 contre loup + corbeau : 100 %. Solveur d'accessibilité jusqu'à `LANTERNE.fin`. Partie jouée dans Chromium de l'abbaye au boss. **Retouches (22/10)** : cartouche DEMO sur l'accueil ; marche plus douce (le balancement suit l'horloge, 2,4 cycles par seconde, au lieu de repartir à chaque case, soit 10 cycles par seconde) ; **meubles en volume** (decor `meuble` du moteur : lit, table et tonneau faits de boîtes et de cylindres texturés face par face, au lieu d'images debout qui paraissaient plates) ; page **Crédits** (`credits/index.html`, lien en bas de l'accueil et sur l'écran titre de la Lanterne) et règle des crédits. **Passe sur les objets (22/10)** : en volume aussi la bibliothèque, le pupitre au livre ouvert, la cheminée (avec sa flamme qui vacille), les barrières, les colonnes de l'abbaye et de la crypte, les sarcophages couchés, et les objets coffre (couvercle qui s'ouvre sur les pièces d'or) et panneau ; **ornements** des cartes (`ornements` : tapis au sol, fenêtres, vitraux, tapisseries, tableau, bouclier, étagère, torches qui éclairent) ; fenêtres à volets sur les façades de Clairfond (`fenetres` des maisons) ; maison d'Ysolde et auberge meublées (cheminée, tapis, fenêtres), abbaye (vitraux, tapisseries, tapis rouge), crypte (torches). Grande Lanterne de l'abbaye refaite en volume et avancée au milieu de la nef (bassin d'eau, fût, tête aux vitres allumées, toit pointu ; l'image du pack, loin du mur, devenait un bassin qui flotte) ; Vaast l'attend à côté du tapis. Lanternes de sauvegarde et lanternes oubliées en volume aussi (petite lanterne de pierre ; l'oubliée en pierre sombre moussue, vitres éteintes jusqu'à ce qu'on l'allume : pièces `si: 'eteinte'` / `'allumee'`). Prochaine étape : session 4 (actes 2 et 3), opusplan.
 - **Revue « ingénieur senior »** (19/10) : rapport [`specs/revue-code.md`](specs/revue-code.md) (problèmes, tests, propositions pour économiser des jetons, prochaines étapes chiffrées). Faits : test de cohérence des classements (`verifications.js` § 9), `outils/logique.js` dans la CI (grilles du jour, Picross, Yams, transfert ; 365 jours chaque lundi), code mort d'Alunissage retiré. Suites toutes faites le 19/10 (§ 7) ; le moteur commun Amiral ! / Escadrille ! est abandonné (20/10) : le lot 2 d'Escadrille a été fait par copie, comme le recommandait `specs/escadrille.md` § 9. **Chantier terminé.**
 - **Amiral ! : chantier naval** (17/10) : cahier des charges [`specs/amiral.md`](specs/amiral.md). Maquettes validées : écrans `maquettes/amiral-chantier.html` (https://claude.ai/artifact/7jpyciqv3pN5x4AYJqe2aS, police C « mélange ») et dessins `maquettes/amiral-navires.html` (https://claude.ai/artifact/2kK1n6Uj7Smo4JCavJLiSN). **Session 1 faite (17/10)** : hauteur qui suit l'écran, polices Press Start 2P + Rajdhani, torpille/sonar/projecteur en deux gestes, FEU !, pouvoirs généralisés par navire, chantier naval, 4 nouveaux navires jouables avec l'IA (croiseur MISSILES, destroyer SONAR, garde-côte PROJECTEUR, navire-atelier REPARATION), parties simulées (`Amiral.simulate`) ; bilan et réglages : `specs/amiral.md` § 7. Les 4 nouveaux navires restent ouverts à tous (décision du 17/10 : pas de reverrouillage ; seuls mouilleur, brouilleur et vedette seront à débloquer). À essayer sur le téléphone. **Session 2 faite (19/10)** : mouilleur MINES (tir en retour qui touche à coup sûr), brouilleur FUMEE (résultats cachés 2 coups), vedette LEURRE (faux navire de 2 cases), avec l'IA qui sait les poser et s'y laisse prendre ; déblocages (Capitaine, Amiral, 10 victoires) et annonce en fin de partie ; bataille du jour (flottes, placement ennemi et hasard de l'IA tirés de la date, Capitaine, une tentative classée comptée au COMBAT !, classement `daily:`) ; accueil (défi du jour, records, classement du jour, transfert du palmarès) ; artefact republié. Bilan et réglages : `specs/amiral.md` § 8. **À essayer sur le téléphone** (gestes des mines et du leurre, lisibilité de la fumée), et un vrai record du jour à confirmer. **Test instable corrigé (20/10)** : le test d'Amiral ! de `fumee.js` échouait environ 1 fois sur 30 (leurre, fumée, sonar) car il vérifiait après le tour de l'ordinateur, joué au hasard ; vérifications faites dès la fin de l'action du joueur, une nouvelle partie pour mines, fumée et leurre, cases sans piège ennemi ; 60/60 en local, CI verte sur `main`.
 - **Accueil retouché** (19/10) : revue du design de l'accueil (12 points), DA Dragon Quest abandonnée après 3 maquettes ; maquette `maquettes/accueil-retouche.html` (https://claude.ai/artifact/FKNVcDsu1bhjHpBt7ZraAw), **choix C** (l'étagère d'aujourd'hui) ; installé (détails : `specs/ludotheque.md`). À voir sur le téléphone : noms sous les cartouches, filtres sur une ligne, bandeau du jeu à la une, volet, REJOINDRE ▶.
